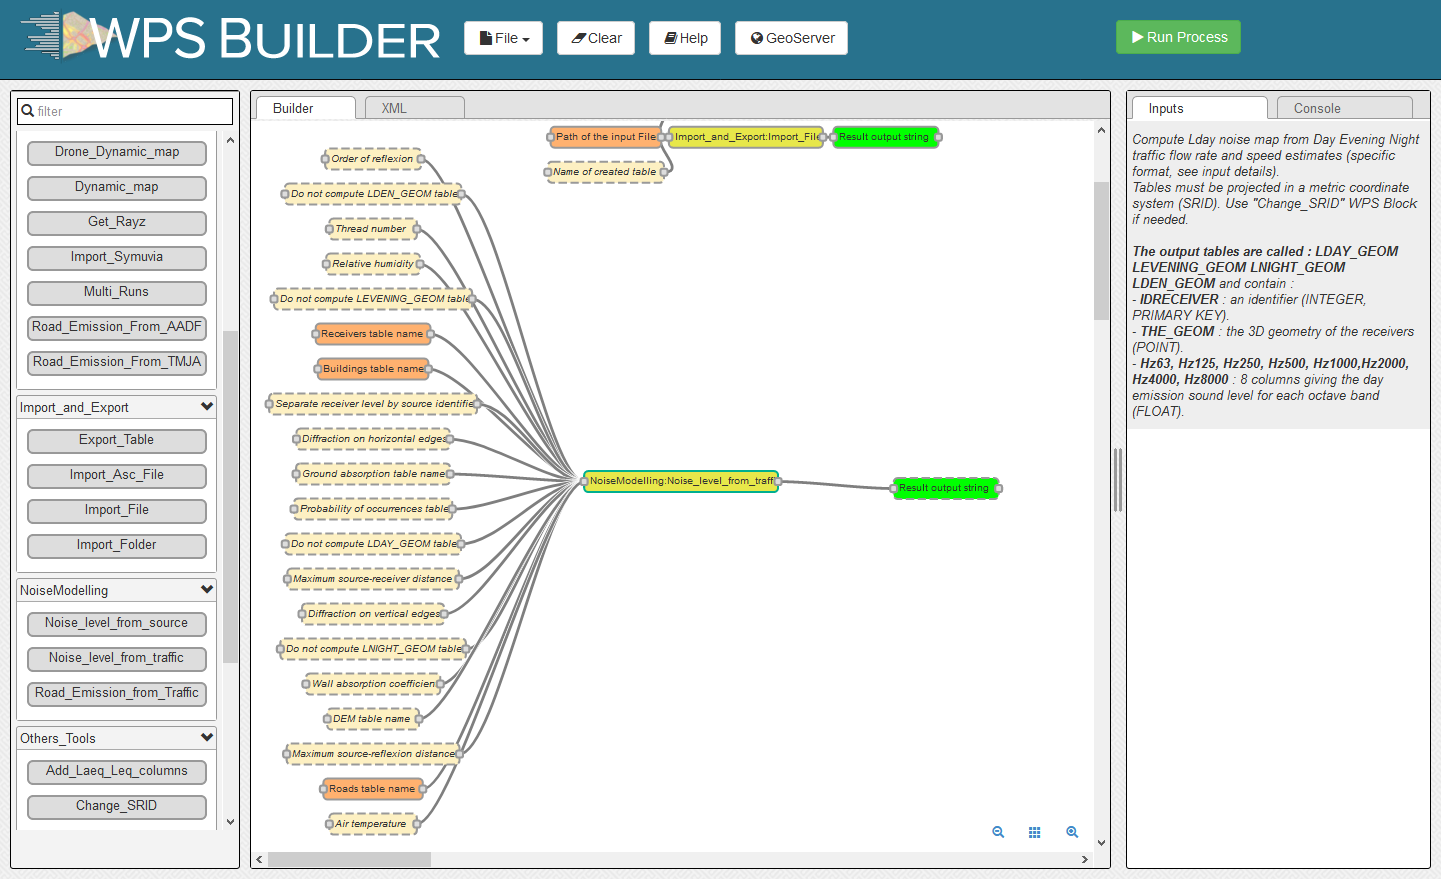
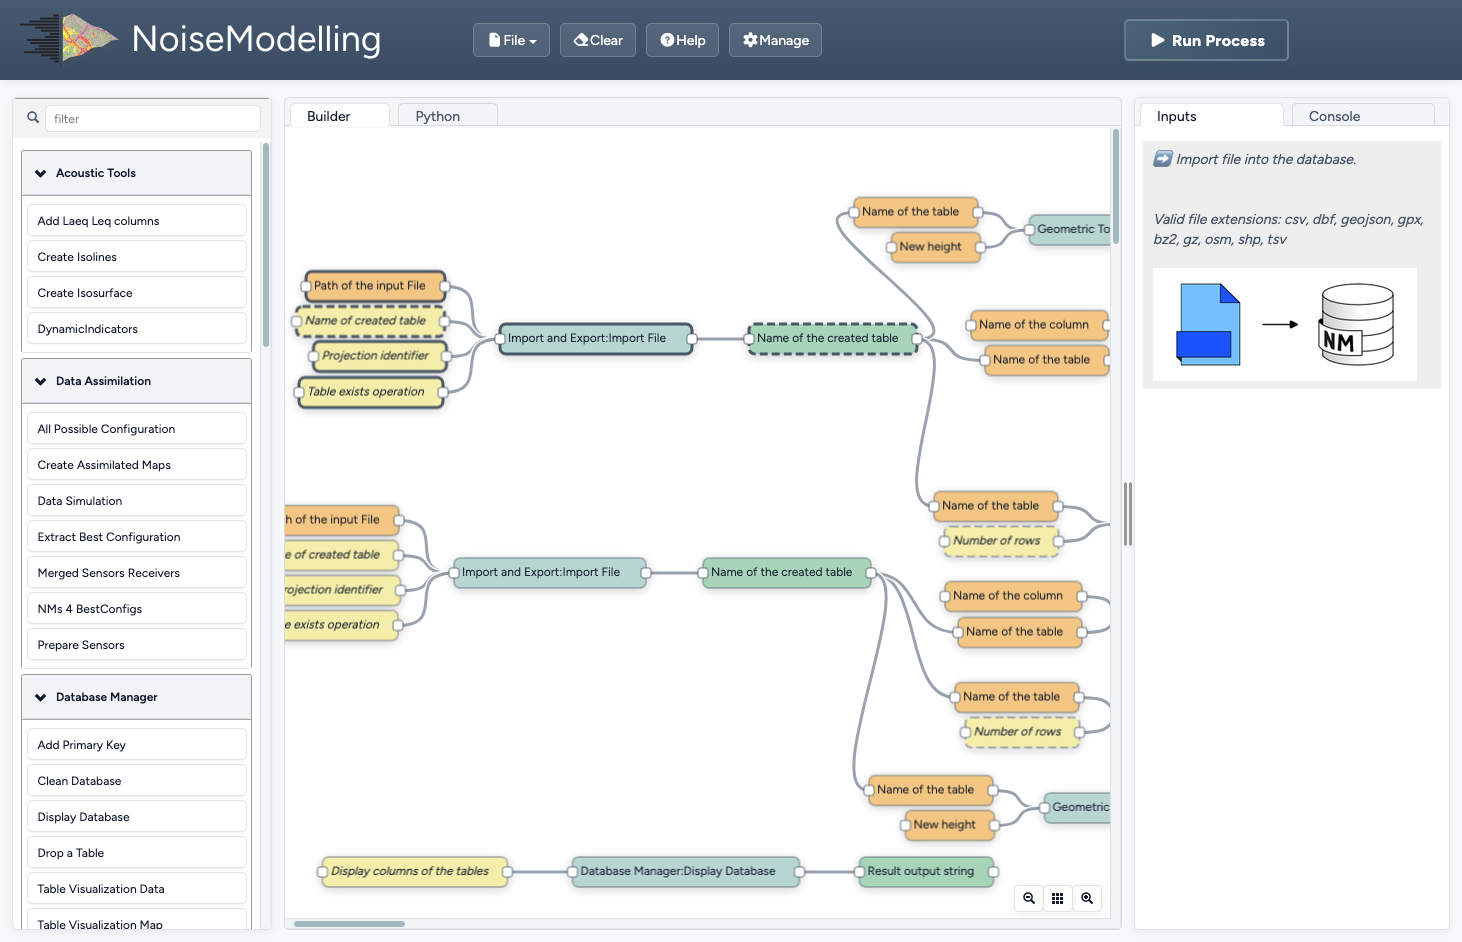
[skip ci] remove OrbisGIS reference

diff --git a/Docs/Noise_Map_From_OSM_Tutorial.rst b/Docs/Noise_Map_From_OSM_Tutorial.rst
@@ -97,13 +97,13 @@ Export tables into files
 
 * Export a table: It is also possible to export the tables via ``Export_Table`` WPS script, in Shapefile, CSV or GeoJSON format.
 
-* View the files: Then open these files into your preferred Geographic Information System (*e.g* `QGIS`_, `OrbisGIS`_, ...). You can then graphically visualize your geometries layer, but also the data contained in it. Take the time to familiarize yourself with your chosen GIS.
+* View the files: Then open these files into your preferred Geographic Information System (*e.g* `QGIS`_, `OpenJUMP`_, ...). You can then graphically visualize your geometries layer, but also the data contained in it. Take the time to familiarize yourself with your chosen GIS.
 
 * Add a background map: Most of the GIS allow you to add an `WMS`_ OSM `background map`_: (see an `example with QGIS`_)
 
 * Change colors: Most of the GIS allow you to change layer colors (*e.g.* ``GROUND`` layer in green, ``BUILDINGS`` in gray, ``ROADS`` in red).
 
-.. _OrbisGIS: http://orbisgis.org/
+.. _OpenJUMP: https://github.com/openjump-gis/openjump
 .. _QGIS: http://qgis.org/
 .. _WMS : https://www.ogc.org/standards/wms
 .. _background map : https://wiki.openstreetmap.org/wiki/Tile_servers